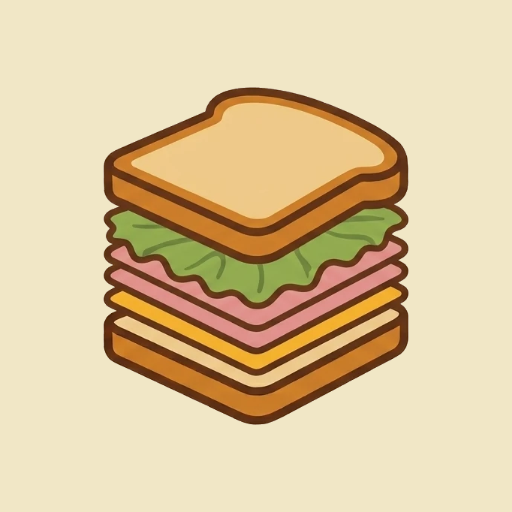
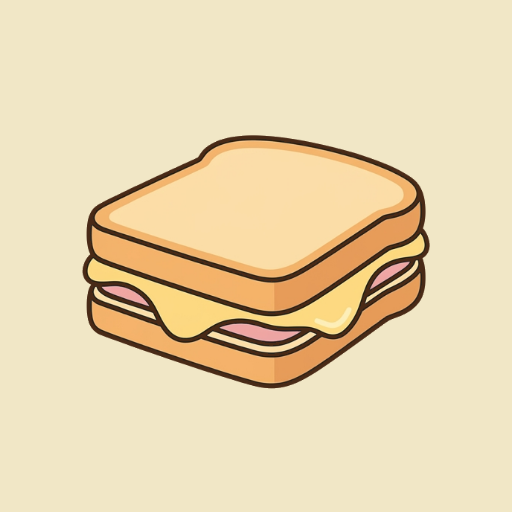
Misto: ícone novo (misto quente) em versões clara e escura, com contorno marrom como os outros
Claude-Session: https://claude.ai/code/session_01VuAEu1YUHS9jy2dRVeSzM2

diff --git a/misto/index.html b/misto/index.html
@@ -2,16 +2,16 @@
 <html lang="pt-BR">
 <head>
 <meta charset="UTF-8">
-<script src="../comum/tema.js?v=78"></script>
-<script src="../comum/cabecalho.js?v=78"></script>
+<script src="../comum/tema.js?v=79"></script>
+<script src="../comum/cabecalho.js?v=79"></script>
 <meta name="viewport" content="width=device-width, initial-scale=1, maximum-scale=1, user-scalable=no, viewport-fit=cover">
 <meta name="apple-mobile-web-app-capable" content="yes">
 <meta name="apple-mobile-web-app-status-bar-style" content="black-translucent">
 <meta name="apple-mobile-web-app-title" content="Misto">
 <meta name="mobile-web-app-capable" content="yes">
 <meta name="theme-color" content="#f4795b">
-<link rel="apple-touch-icon" href="icon-claro.png?v=10">
-<link rel="icon" type="image/png" href="icon-claro.png?v=10">
+<link rel="apple-touch-icon" href="icon-claro.png?v=11">
+<link rel="icon" type="image/png" href="icon-claro.png?v=11">
 <link href="https://fonts.googleapis.com/css2?family=Noto+Sans:wdth,wght@62.5..100,400..900&display=swap" rel="stylesheet">
 <title>MISTO — Ache o recheio escondido</title>
 <style>
@@ -400,7 +400,7 @@
   #help-btn svg{display:block;margin:auto;}
 </style>
 
-<link rel="stylesheet" href="../comum/cabecalho.css?v=78">
+<link rel="stylesheet" href="../comum/cabecalho.css?v=79">
 <style>
   /* cores do cabeçalho comum, a partir das cores deste jogo */
   :root { --fim-btn-bg: var(--accent); --fim-btn-ink: var(--ink); --fim-btn-border: var(--stroke) solid var(--ink); --gh-fim-ink: var(--ink); --gh-fim-border: var(--stroke) solid var(--ink); --gh-fim-border-lose: var(--stroke) solid var(--ink); --mpad: 18px; --gh-ink: var(--text); --gh-muted: var(--text-dim); --gh-surface: var(--card); --gh-track: var(--tile-ghost); --gh-accent: var(--accent); --gh-line: color-mix(in srgb, var(--text) 22%, transparent); }
@@ -436,7 +436,7 @@
 
   <header class="gh">
     <a class="gh-back back-home" href="../" aria-label="Voltar aos Jogos do Dia" title="Jogos do Dia"><svg viewBox="0 0 24 24" width="22" height="22" fill="none" stroke="currentColor" stroke-width="2.6" stroke-linecap="round" stroke-linejoin="round" aria-hidden="true"><path d="M15 5l-7 7 7 7"/></svg></a>
-    <a class="gh-brand" href="./" aria-label="Misto — recarregar"><img src="icon-claro.png?v=10" data-escuro="icon-escuro.png?v=10" alt=""><b>MISTO</b></a>
+    <a class="gh-brand" href="./" aria-label="Misto — recarregar"><img src="icon-claro.png?v=11" data-escuro="icon-escuro.png?v=11" alt=""><b>MISTO</b></a>
     <button class="gh-btn" id="help-btn" title="Como jogar" aria-label="Como jogar"><svg viewBox="0 0 24 24" aria-hidden="true" fill="none" stroke="currentColor" stroke-width="2.4" stroke-linecap="round" stroke-linejoin="round"><circle cx="12" cy="12" r="9"/><path d="M9.3 9.3a2.8 2.8 0 0 1 5.4 1c0 1.9-2.7 2.5-2.7 4"/><path d="M12 17.6h.01"/></svg></button>
     <!-- configurações e estatísticas ficam no painel Jogos do Dia; o botão original segue oculto -->
       <button class="icon-btn" id="settings-btn" hidden aria-hidden="true" tabindex="-1">
@@ -547,7 +547,7 @@
 <div class="overlay" id="end-overlay">
   <div class="modal fim">
     <div class="fim-top"><button class="fim-close" data-close="end-overlay" aria-label="Fechar"><svg viewBox="0 0 24 24" aria-hidden="true"><path d="M6 6l12 12M18 6L6 18"/></svg></button></div>
-    <div class="fim-art"><img src="icon-claro.png?v=10" data-escuro="icon-escuro.png?v=10" alt="Misto quente" style="height:96px;border-radius:24px;box-shadow:0 4px 14px rgba(60,40,20,.15)"></div>
+    <div class="fim-art"><img src="icon-claro.png?v=11" data-escuro="icon-escuro.png?v=11" alt="Misto quente" style="height:96px;border-radius:24px;box-shadow:0 4px 14px rgba(60,40,20,.15)"></div>
     <h2 class="fim-title" id="end-text">Misto completo!</h2>
     <div class="fim-result"><div class="tile-row end-slice win" id="end-word"></div><button class="fim-share" id="end-share" aria-label="Compartilhar resultado" title="Compartilhar"><svg viewBox="0 0 24 24" aria-hidden="true"><g class="sh"><path d="M12 3.5v11"/><path d="M8 7.5l4-4 4 4"/><path d="M7.5 11H6.5A1.5 1.5 0 0 0 5 12.5v6A1.5 1.5 0 0 0 6.5 20h11a1.5 1.5 0 0 0 1.5-1.5v-6A1.5 1.5 0 0 0 17.5 11h-1"/></g><path class="ok" d="M5.5 12.5l4 4 9-9"/></svg></button></div>
     <p class="fim-sub" id="end-sub"></p>
@@ -986,7 +986,7 @@
     document.getElementById('keyboard').style.display = acabou ? 'none' : '';
     document.querySelector('.letters-panel').style.display = acabou ? 'none' : '';
     ghFim(document.getElementById('fim'), !acabou ? null : {
-      img: 'icon-claro.png?v=10', imgEscuro: 'icon-escuro.png?v=10', nome: 'Misto',
+      img: 'icon-claro.png?v=11', imgEscuro: 'icon-escuro.png?v=11', nome: 'Misto',
       titulo: state.won ? 'Misto completo' : 'Não foi dessa vez',
       sub: state.won ? state.guesses.length + '/' + MAX_GUESSES + ' tentativas' : 'o recheio era ' + state.secret.toUpperCase(),
       perdeu: !state.won, diario: daily,
@@ -1201,7 +1201,7 @@
     fn => { document.getElementById("practice-toggle").addEventListener("change", () => setTimeout(fn)); window.addEventListener("sanduba-livre", fn); },
     window.sandubaLivre);
 </script>
-<script src="../comum/catalogo.js?v=78"></script>
-<script src="../comum/proximo.js?v=78" data-jogo="sanduba"></script>
+<script src="../comum/catalogo.js?v=79"></script>
+<script src="../comum/proximo.js?v=79" data-jogo="sanduba"></script>
 </body>
 </html>

diff --git a/quinhentos/index.html b/quinhentos/index.html
@@ -9,8 +9,8 @@
 <meta name="apple-mobile-web-app-capable" content="yes">
 <meta name="apple-mobile-web-app-status-bar-style" content="black-translucent">
 <meta name="apple-mobile-web-app-title" content="Quinhentos">
-<script src="../comum/tema.js?v=78"></script>
-<script src="../comum/cabecalho.js?v=78"></script>
+<script src="../comum/tema.js?v=79"></script>
+<script src="../comum/cabecalho.js?v=79"></script>
 <link rel="preconnect" href="https://fonts.googleapis.com">
 <link rel="preconnect" href="https://fonts.gstatic.com" crossorigin>
 <link href="https://fonts.googleapis.com/css2?family=Noto+Sans:wdth,wght@62.5..100,400..900&display=swap" rel="stylesheet">
@@ -351,7 +351,7 @@ header{
 #btn-stats[hidden], #btn-settings[hidden]{display:none !important;}
 </style>
 
-<link rel="stylesheet" href="../comum/cabecalho.css?v=78">
+<link rel="stylesheet" href="../comum/cabecalho.css?v=79">
 <style>
   /* cores do cabeçalho comum, a partir das cores deste jogo */
   :root { --fim-btn-bg: var(--accent); --fim-btn-ink: var(--accent-ink); --gh-fim-ink: var(--accent-ink); --mpad: 22px; --gh-ink: var(--ink); --gh-muted: var(--ink-dim); --gh-surface: var(--panel); --gh-track: var(--panel-2); --gh-accent: var(--accent); --gh-line: var(--line); }
@@ -1326,7 +1326,7 @@ header{
     fn => { new MutationObserver(fn).observe(document.getElementById("mode-switch"), { attributes: true, attributeFilter: ["class"] }); window.addEventListener("quinhentos-livre", fn); },
     window.quinhentosLivre);
 </script>
-<script src="../comum/catalogo.js?v=78"></script>
-<script src="../comum/proximo.js?v=78" data-jogo="quinhentos"></script>
+<script src="../comum/catalogo.js?v=79"></script>
+<script src="../comum/proximo.js?v=79" data-jogo="quinhentos"></script>
 </body>
 </html>

diff --git a/novelo/index.html b/novelo/index.html
@@ -10,8 +10,8 @@
 <meta name="apple-mobile-web-app-title" content="Novelo">
 <title>NOVELO — um fio por todas as casas</title>
 <link rel="icon" type="image/png" href="icon.png">
-<script src="../comum/tema.js?v=78"></script>
-<script src="../comum/cabecalho.js?v=78"></script>
+<script src="../comum/tema.js?v=79"></script>
+<script src="../comum/cabecalho.js?v=79"></script>
 <link rel="apple-touch-icon" href="icon.png">
 <link rel="preconnect" href="https://fonts.googleapis.com">
 <link rel="preconnect" href="https://fonts.gstatic.com" crossorigin>
@@ -217,7 +217,7 @@
     background: var(--accent); color: var(--on-accent); font: inherit; font-weight: 700; font-size: .95rem;
   }
 </style>
-<link rel="stylesheet" href="../comum/cabecalho.css?v=78">
+<link rel="stylesheet" href="../comum/cabecalho.css?v=79">
 <style>
   :root { --fim-btn-bg: var(--accent); --fim-btn-ink: var(--on-accent); --mpad: 22px; --gh-ink: var(--ink); --gh-muted: var(--muted); --gh-surface: var(--surface); --gh-track: var(--surface-2); --gh-accent: var(--accent); --gh-line: var(--line); }
 </style>
@@ -773,7 +773,7 @@
   demo("demoB", [0, 3, 6, 7, 4, 1, 2, 5, 8], [[0, 1], [8, 2]], "M115 27L115 203");
 })();
 </script>
-<script src="../comum/catalogo.js?v=78"></script>
-<script src="../comum/proximo.js?v=78" data-jogo="novelo"></script>
+<script src="../comum/catalogo.js?v=79"></script>
+<script src="../comum/proximo.js?v=79" data-jogo="novelo"></script>
 </body>
 </html>

diff --git a/eclipse/index.html b/eclipse/index.html
@@ -10,8 +10,8 @@
 <meta name="apple-mobile-web-app-title" content="Eclipse">
 <title>ECLIPSE — um sol e uma lua em cada linha</title>
 <link rel="icon" type="image/png" href="icon.png">
-<script src="../comum/tema.js?v=78"></script>
-<script src="../comum/cabecalho.js?v=78"></script>
+<script src="../comum/tema.js?v=79"></script>
+<script src="../comum/cabecalho.js?v=79"></script>
 <link rel="apple-touch-icon" href="icon.png">
 <link rel="preconnect" href="https://fonts.googleapis.com">
 <link rel="preconnect" href="https://fonts.gstatic.com" crossorigin>
@@ -275,7 +275,7 @@
   }
 
 </style>
-<link rel="stylesheet" href="../comum/cabecalho.css?v=78">
+<link rel="stylesheet" href="../comum/cabecalho.css?v=79">
 <style>
   /* cores do cabeçalho comum, a partir das cores deste jogo */
   :root { --fim-btn-bg: var(--accent); --fim-btn-ink: var(--on-accent); --mpad: 22px; --gh-ink: var(--ink); --gh-muted: var(--muted); --gh-surface: var(--surface); --gh-track: var(--surface-2); --gh-accent: var(--accent); --gh-line: var(--line); }
@@ -879,7 +879,7 @@
   $("helpBtn").addEventListener("click", () => openModal("helpOverlay"));
 })();
 </script>
-<script src="../comum/catalogo.js?v=78"></script>
-<script src="../comum/proximo.js?v=78" data-jogo="eclipse"></script>
+<script src="../comum/catalogo.js?v=79"></script>
+<script src="../comum/proximo.js?v=79" data-jogo="eclipse"></script>
 </body>
 </html>

diff --git a/retalhos/index.html b/retalhos/index.html
@@ -10,8 +10,8 @@
 <meta name="apple-mobile-web-app-title" content="Retalhos">
 <title>RETALHOS — uma colcha de retângulos</title>
 <link rel="icon" type="image/png" href="icon.png">
-<script src="../comum/tema.js?v=78"></script>
-<script src="../comum/cabecalho.js?v=78"></script>
+<script src="../comum/tema.js?v=79"></script>
+<script src="../comum/cabecalho.js?v=79"></script>
 <link rel="apple-touch-icon" href="icon.png">
 <link rel="preconnect" href="https://fonts.googleapis.com">
 <link rel="preconnect" href="https://fonts.gstatic.com" crossorigin>
@@ -226,7 +226,7 @@
     background: var(--accent); color: var(--on-accent); font: inherit; font-weight: 700; font-size: .95rem;
   }
 </style>
-<link rel="stylesheet" href="../comum/cabecalho.css?v=78">
+<link rel="stylesheet" href="../comum/cabecalho.css?v=79">
 <style>
   :root { --fim-btn-bg: var(--accent); --fim-btn-ink: var(--on-accent); --mpad: 22px; --gh-ink: var(--ink); --gh-muted: var(--muted); --gh-surface: var(--surface); --gh-track: var(--surface-2); --gh-accent: var(--accent); --gh-line: var(--line); }
 </style>
@@ -727,7 +727,7 @@
   demo("demoB", true);
 })();
 </script>
-<script src="../comum/catalogo.js?v=78"></script>
-<script src="../comum/proximo.js?v=78" data-jogo="retalhos"></script>
+<script src="../comum/catalogo.js?v=79"></script>
+<script src="../comum/proximo.js?v=79" data-jogo="retalhos"></script>
 </body>
 </html>

diff --git a/pingado/index.html b/pingado/index.html
@@ -10,8 +10,8 @@
 <meta name="apple-mobile-web-app-title" content="Pingado">
 <title>PINGADO — café e leite em equilíbrio</title>
 <link rel="icon" type="image/png" href="icon.png">
-<script src="../comum/tema.js?v=78"></script>
-<script src="../comum/cabecalho.js?v=78"></script>
+<script src="../comum/tema.js?v=79"></script>
+<script src="../comum/cabecalho.js?v=79"></script>
 <link rel="apple-touch-icon" href="icon.png">
 <link rel="preconnect" href="https://fonts.googleapis.com">
 <link rel="preconnect" href="https://fonts.gstatic.com" crossorigin>
@@ -203,7 +203,7 @@
     background: var(--accent); color: var(--on-accent); font: inherit; font-weight: 700; font-size: .95rem;
   }
 </style>
-<link rel="stylesheet" href="../comum/cabecalho.css?v=78">
+<link rel="stylesheet" href="../comum/cabecalho.css?v=79">
 <style>
   :root { --fim-btn-bg: var(--accent); --fim-btn-ink: var(--on-accent); --mpad: 22px; --gh-ink: var(--ink); --gh-muted: var(--muted); --gh-surface: var(--surface); --gh-track: var(--surface-2); --gh-accent: var(--accent); --gh-line: var(--line); }
 </style>
@@ -658,7 +658,7 @@
   demo("demoB", true);
 })();
 </script>
-<script src="../comum/catalogo.js?v=78"></script>
-<script src="../comum/proximo.js?v=78" data-jogo="pingado"></script>
+<script src="../comum/catalogo.js?v=79"></script>
+<script src="../comum/proximo.js?v=79" data-jogo="pingado"></script>
 </body>
 </html>

diff --git a/comum/catalogo.js b/comum/catalogo.js
@@ -20,7 +20,7 @@ const BASE_GAMES = [
   { id: "termo",      name: "Termo",      emoji: "🟩", desc: "Wordle em português",           url: "https://term.ooo/" },
   { id: "spotle",     name: "Spotle",     emoji: "🎵", desc: "Adivinhe o artista",            url: "https://spotle.io/" },
   { id: "betweenle",  name: "Betweenle",  emoji: "↕", desc: "A palavra está entre…",         url: "https://betweenle.com/" },
-  { id: "sanduba",    name: "Misto",      emoji: "🥪", desc: "Betweenle em português",        url: "misto/", icon: "misto/icon-claro.png?v=10", iconDark: "misto/icon-escuro.png?v=10", iconFull: true },
+  { id: "sanduba",    name: "Misto",      emoji: "🥪", desc: "Betweenle em português",        url: "misto/", icon: "misto/icon-claro.png?v=11", iconDark: "misto/icon-escuro.png?v=11", iconFull: true },
   { id: "word500",    name: "Word500",    emoji: "🔢", desc: "Dedução por contagem",          url: "https://word500.com/" },
   { id: "quinhentos", name: "Quinhentos", emoji: "5⃣", desc: "Word500 em português",          url: "quinhentos/", icon: "quinhentos/icon-claro.png?v=10", iconDark: "quinhentos/icon-escuro.png?v=10", iconFull: true },
   { id: "foximax",    name: "Foximax",    emoji: "🦊", desc: "foximax.com",                   url: "https://foximax.com/" },

diff --git a/index.html b/index.html
@@ -12,8 +12,8 @@
 <link rel="icon" id="favicon" type="image/png" href="icon-192.png?v=6">
 <link rel="apple-touch-icon" href="apple-touch-icon.png?v=6">
 <link rel="manifest" href="manifest.json">
-<script src="comum/tema.js?v=78"></script>
-<script src="comum/catalogo.js?v=78"></script>
+<script src="comum/tema.js?v=79"></script>
+<script src="comum/catalogo.js?v=79"></script>
 <link rel="preconnect" href="https://fonts.googleapis.com">
 <link rel="preconnect" href="https://fonts.gstatic.com" crossorigin>
 <link href="https://fonts.googleapis.com/css2?family=Noto+Sans:wdth,wght@62.5..100,400..900&display=swap" rel="stylesheet">

diff --git a/sw.js b/sw.js
@@ -1,6 +1,6 @@
 // Service worker do Jogos do Dia.
 // Deixa o painel instalável e funcionando offline (sempre tenta a versão mais nova primeiro).
-const CACHE = "jogos-do-dia-v81";
+const CACHE = "jogos-do-dia-v82";
 const FILES = ["./", "./index.html", "./manifest.json", "./icon-192.png", "./icon-512.png", "./apple-touch-icon.png"];
 
 self.addEventListener("install", e => {
